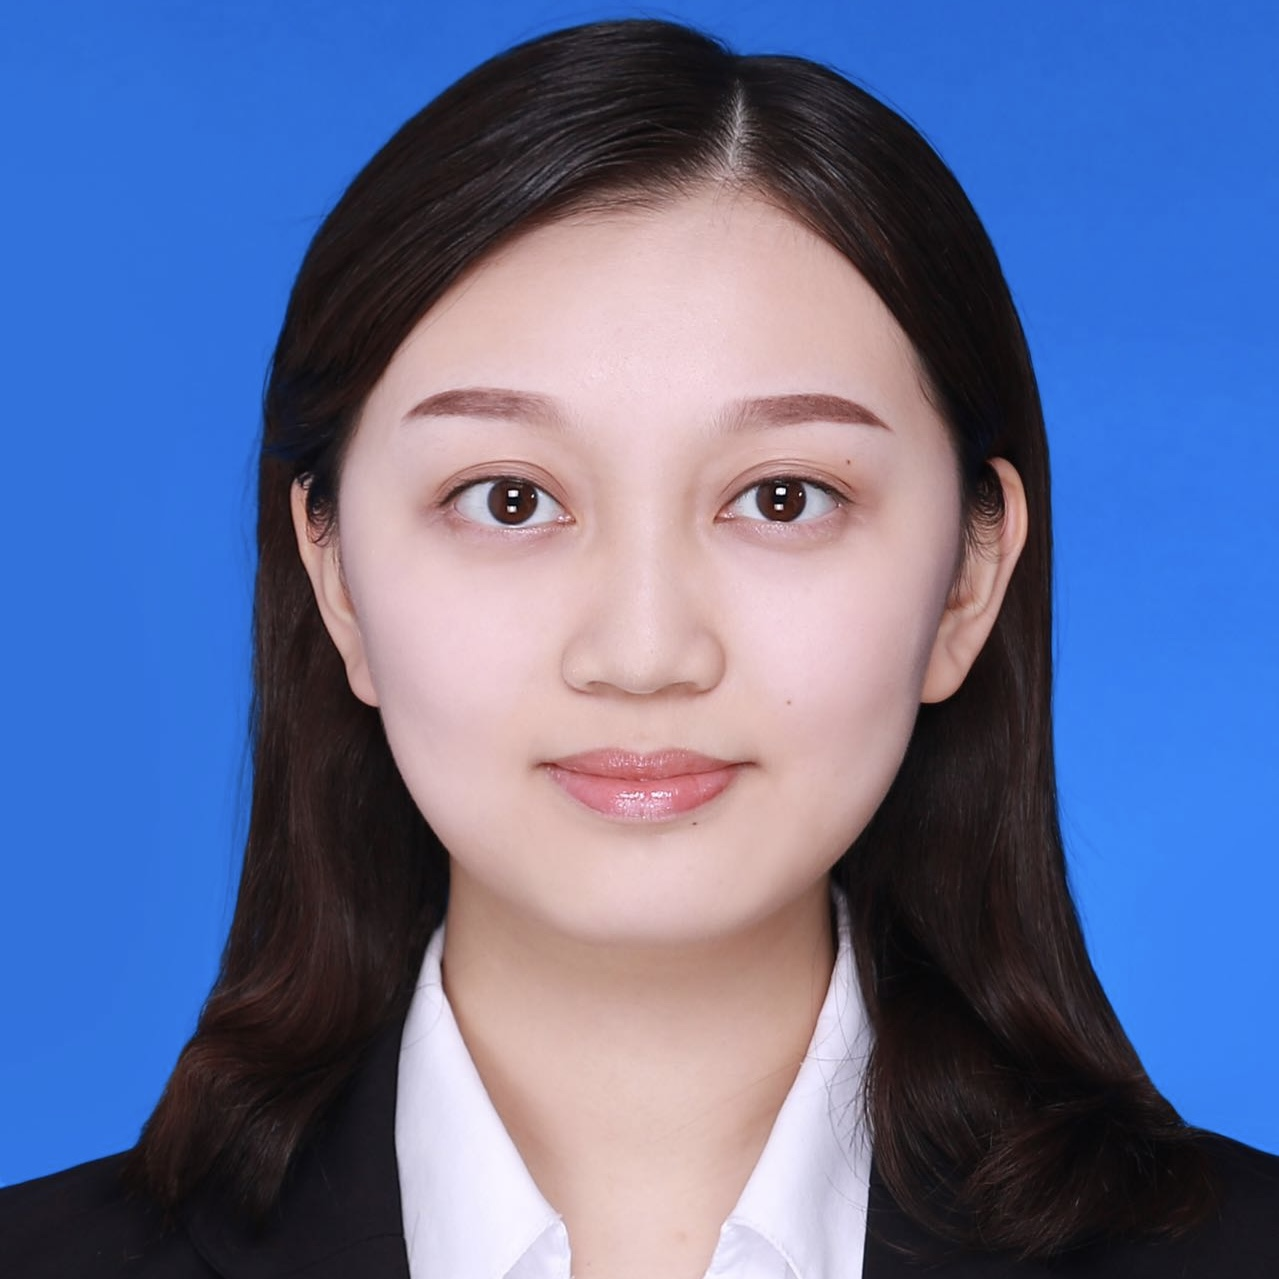
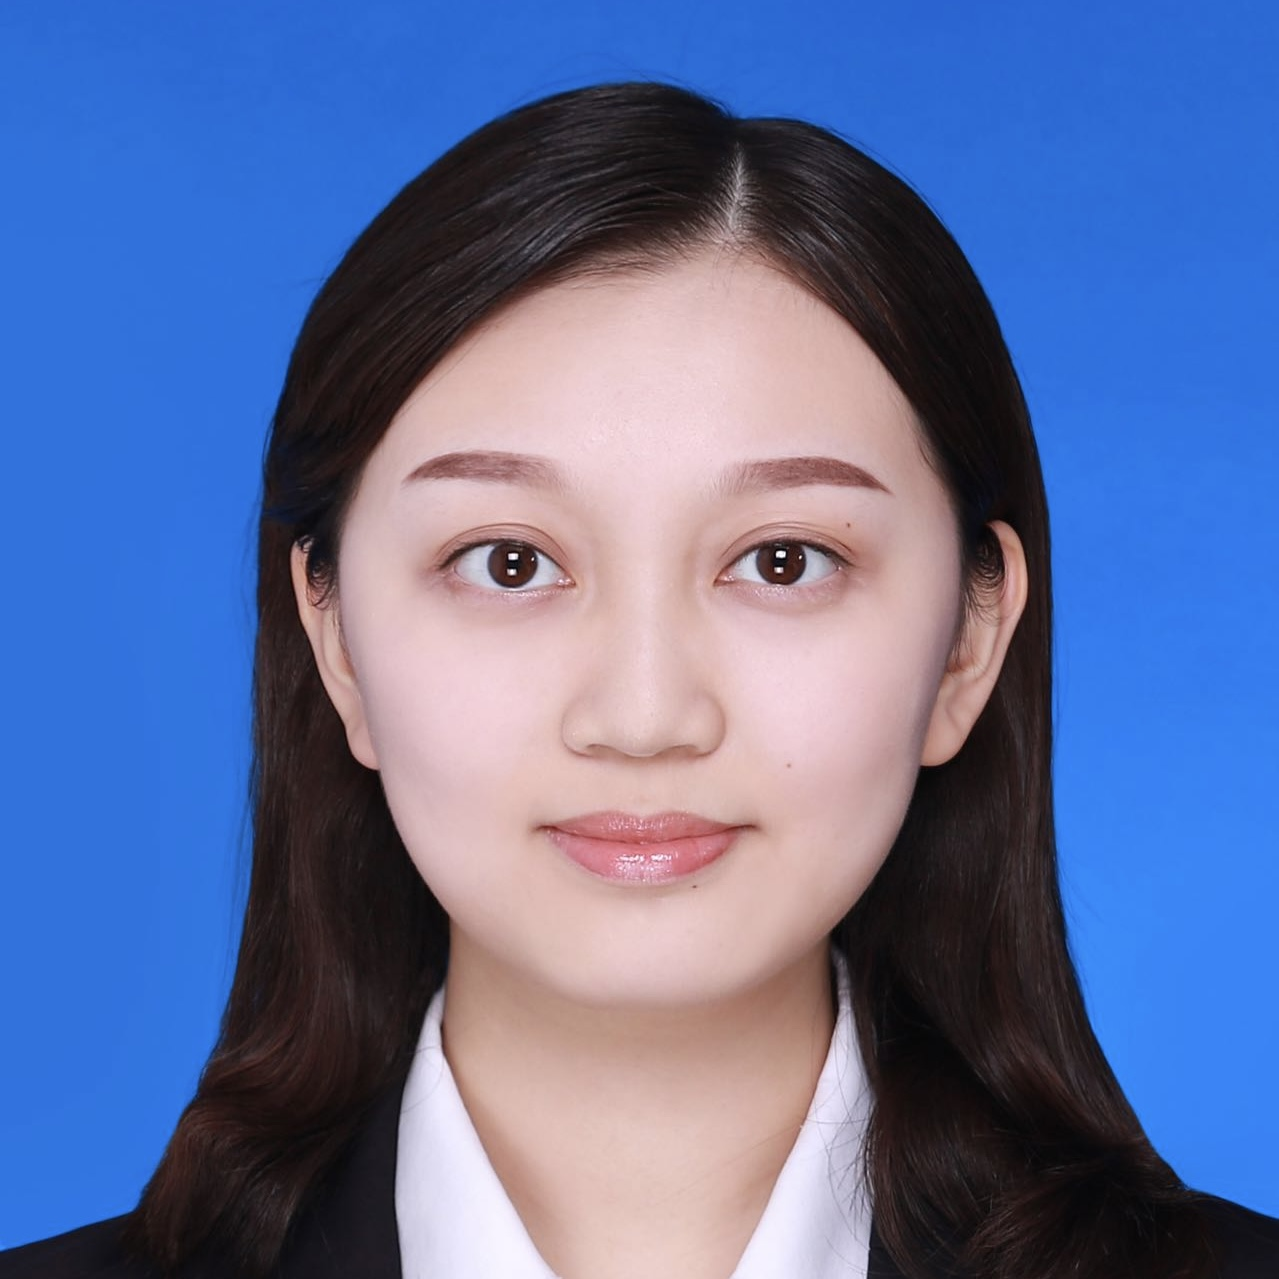
update

Changed region(s): [[0.183, 0.0, 1.0, 1.0], [0.0, 0.5489, 0.2744, 0.9758]]

diff --git a/src/People.tsx b/src/People.tsx
@@ -84,7 +84,7 @@ const Group: React.FC = () => {
                 "B.S., Peking University",
                 "M.S., University of Chicago"
             ],
-            imageSrc: "default.jpg", // Replace with actual image path
+            imageSrc: "portraits/minxuan.jpg", // Replace with actual image path
             link: "https://scholar.google.com/citations?user=a-3k2XkAAAAJ&hl=en"
         },
         {
